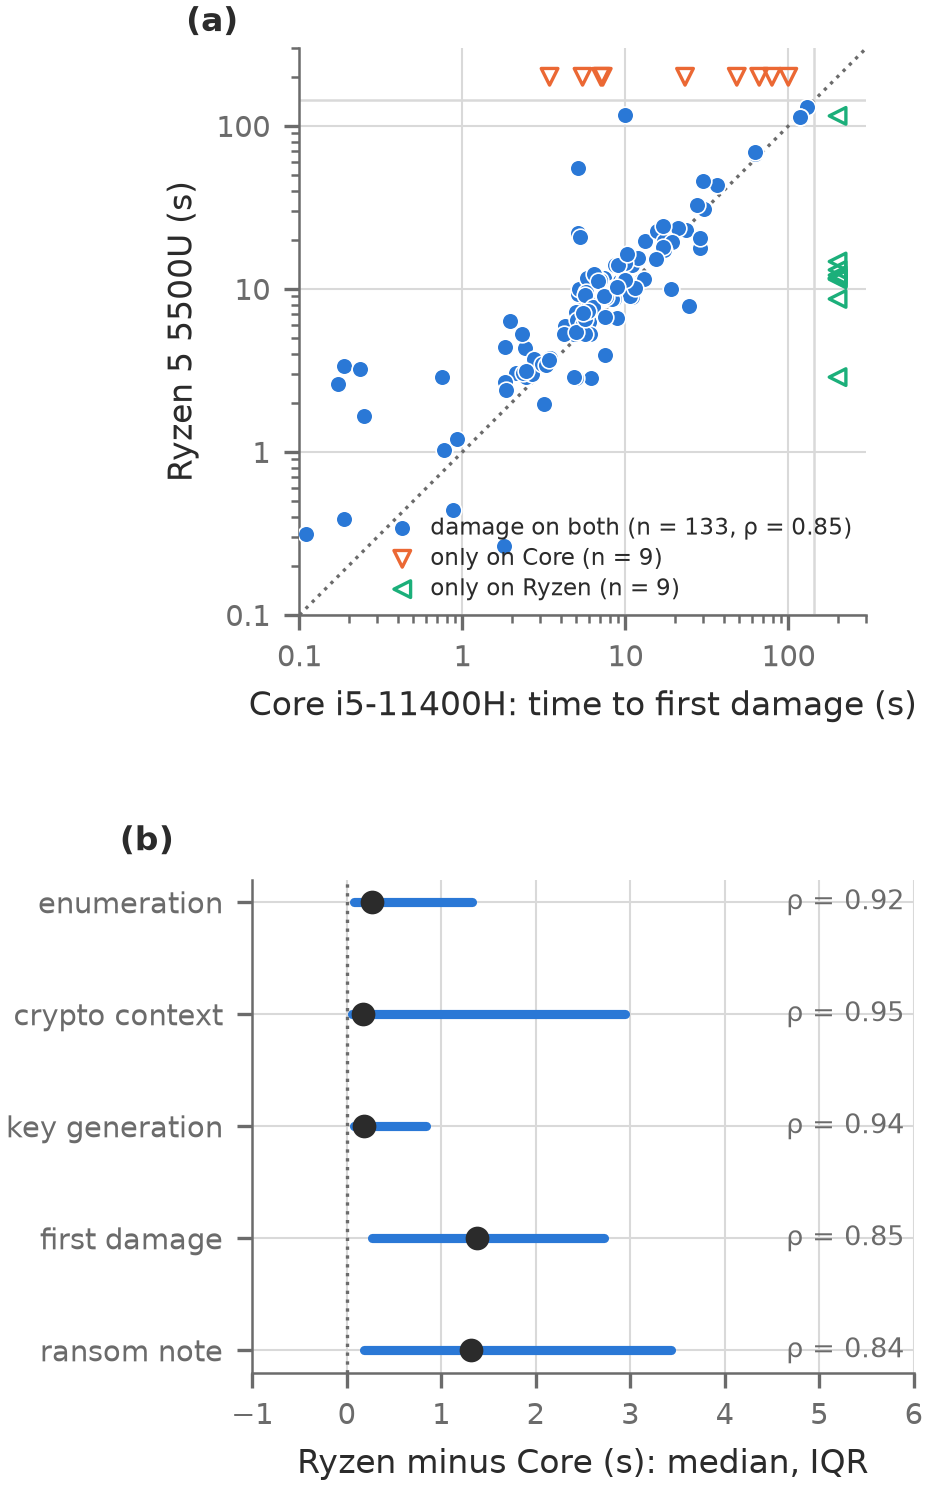
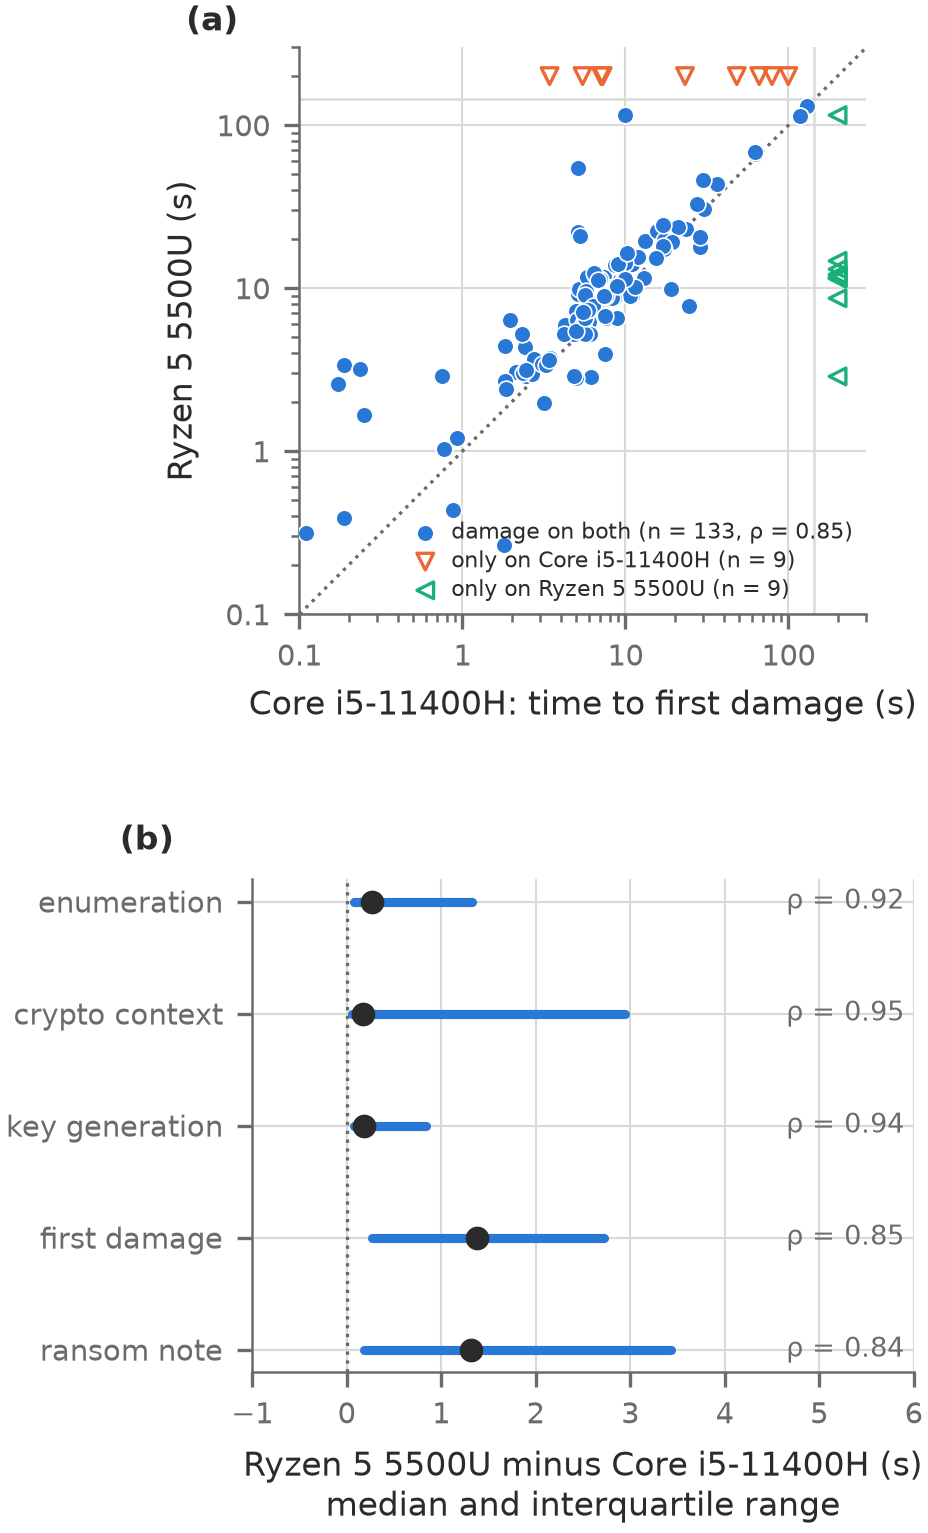
Replication figure: write out the full processor names
The legend and the lower panel's axis label said "Core" and "Ryzen"; they now name Core i5-11400H and
Ryzen 5 5500U in full, and the lower label gets a second line for the statistic shown.

diff --git a/fig_replication.py b/fig_replication.py
@@ -36,15 +36,15 @@ def main():
                label=f'damage on both (n = {len(both)}, ρ = {rho:.2f})')
     oa = m[m.t_damage_a.notna() & m.t_damage_b.isna()]; ob = m[m.t_damage_a.isna() & m.t_damage_b.notna()]
     ax.scatter(oa.t_damage_a, np.full(len(oa), edge), s=16, marker='v', facecolors='none', edgecolors=SERIES[1], linewidths=0.8,
-               zorder=3, label=f'only on {a.a_name.split()[0]} (n = {len(oa)})')
+               zorder=3, label=f'only on {a.a_name} (n = {len(oa)})')
     ax.scatter(np.full(len(ob), edge), ob.t_damage_b, s=16, marker='<', facecolors='none', edgecolors=SERIES[2], linewidths=0.8,
-               zorder=3, label=f'only on {a.b_name.split()[0]} (n = {len(ob)})')
+               zorder=3, label=f'only on {a.b_name} (n = {len(ob)})')
     ax.set_xscale('log'); ax.set_yscale('log'); ax.set_xlim(*lims); ax.set_ylim(*lims)
     ticks = [0.1, 1, 10, 100]; ax.set_xticks(ticks); ax.set_yticks(ticks)
     ax.set_xticklabels(['0.1', '1', '10', '100']); ax.set_yticklabels(['0.1', '1', '10', '100'])
     ax.axhline(edge * 0.72, color='#d9d9d9', lw=0.6, zorder=0); ax.axvline(edge * 0.72, color='#d9d9d9', lw=0.6, zorder=0)
     ax.set_xlabel(f'{a.a_name}: time to first damage (s)'); ax.set_ylabel(f'{a.b_name} (s)')
-    ax.legend(loc='lower right', bbox_to_anchor=(1.0, 0.0), fontsize=5.6, handletextpad=0.2, borderaxespad=0.2, labelspacing=0.3)
+    ax.legend(loc='lower right', bbox_to_anchor=(1.0, 0.0), fontsize=5.2, handletextpad=0.2, borderaxespad=0.2, labelspacing=0.3)
     ax.set_aspect('equal'); ax.text(-0.2, 1.03, '(a)', transform=ax.transAxes, fontsize=8, fontweight='bold')
 
     # (b) paired gap per milestone, B - A (median and IQR), with agreement
@@ -57,7 +57,7 @@ def main():
         bx.text(5.9, i, f'ρ = {r:.2f}', fontsize=6.5, va='center', ha='right', color=MUTED)
     bx.axvline(0, color=MUTED, lw=0.8, ls=':', zorder=1)
     bx.set_yticks(range(len(MILES))); bx.set_yticklabels([l for _, l in MILES]); bx.invert_yaxis()
-    bx.set_xlim(-1, 6); bx.set_xticks(range(-1, 7)); bx.set_xlabel(f'{a.b_name.split()[0]} minus {a.a_name.split()[0]} (s): median, IQR')
+    bx.set_xlim(-1, 6); bx.set_xticks(range(-1, 7)); bx.set_xlabel(f'{a.b_name} minus {a.a_name} (s)\nmedian and interquartile range')
     bx.text(-0.2, 1.06, '(b)', transform=bx.transAxes, fontsize=8, fontweight='bold')
     for s in ('top', 'right'): bx.spines[s].set_visible(False)
 
